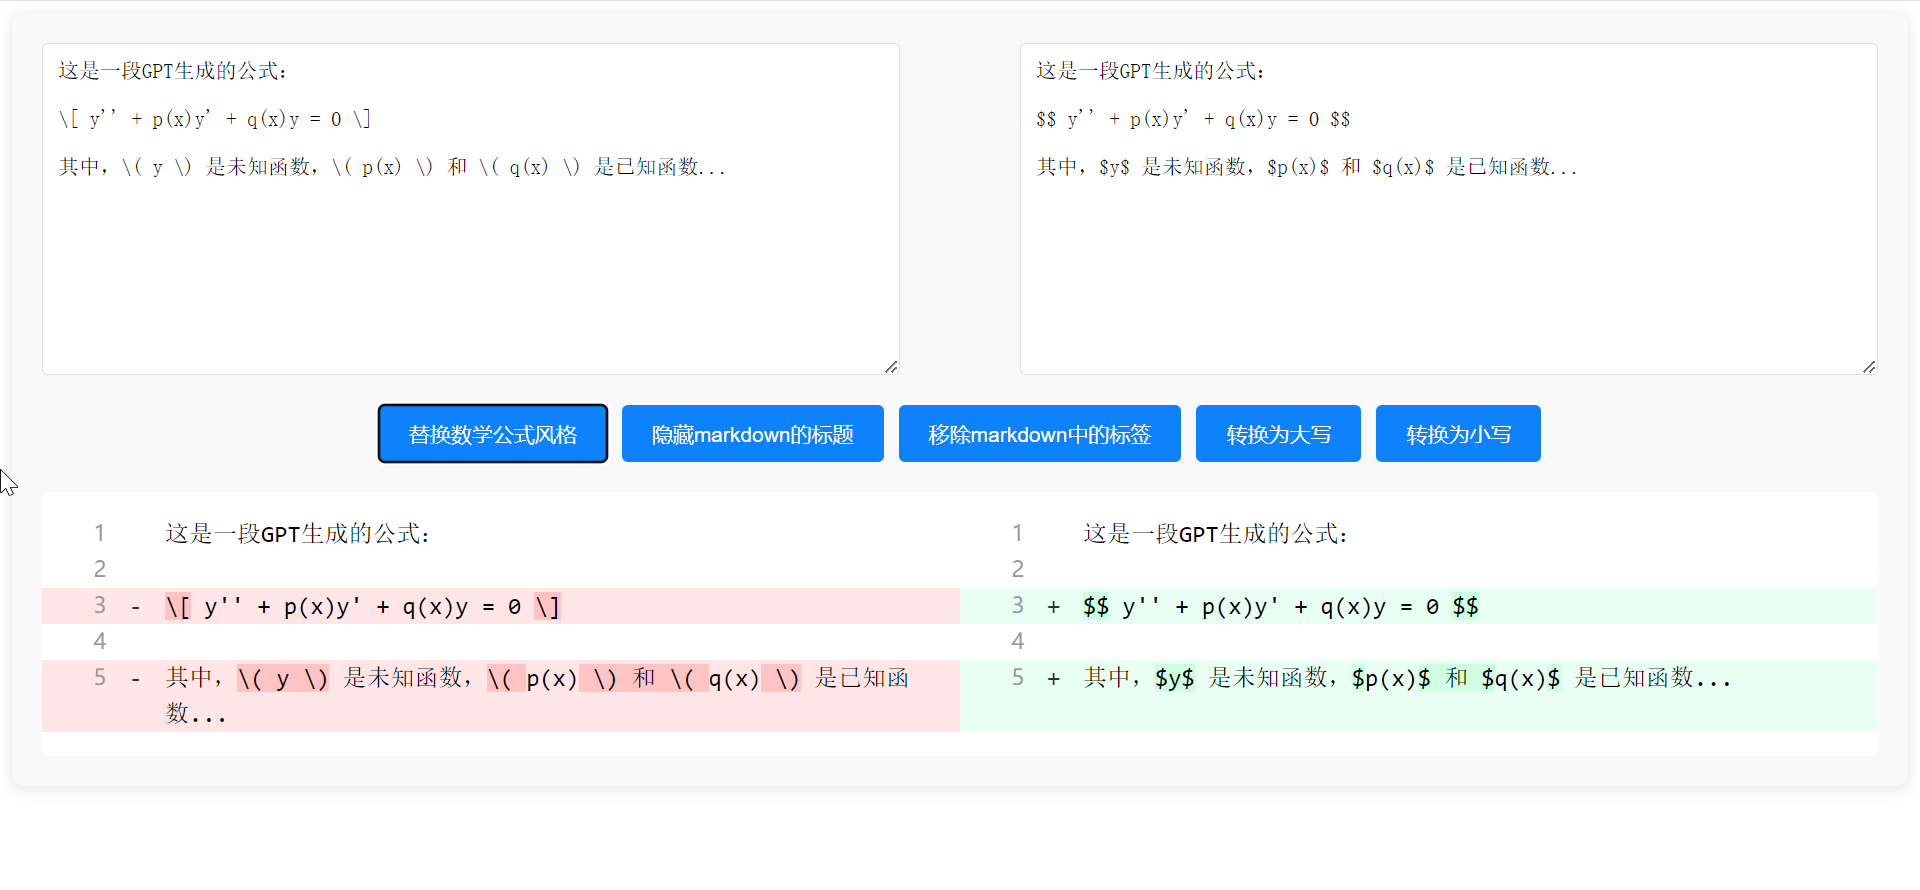
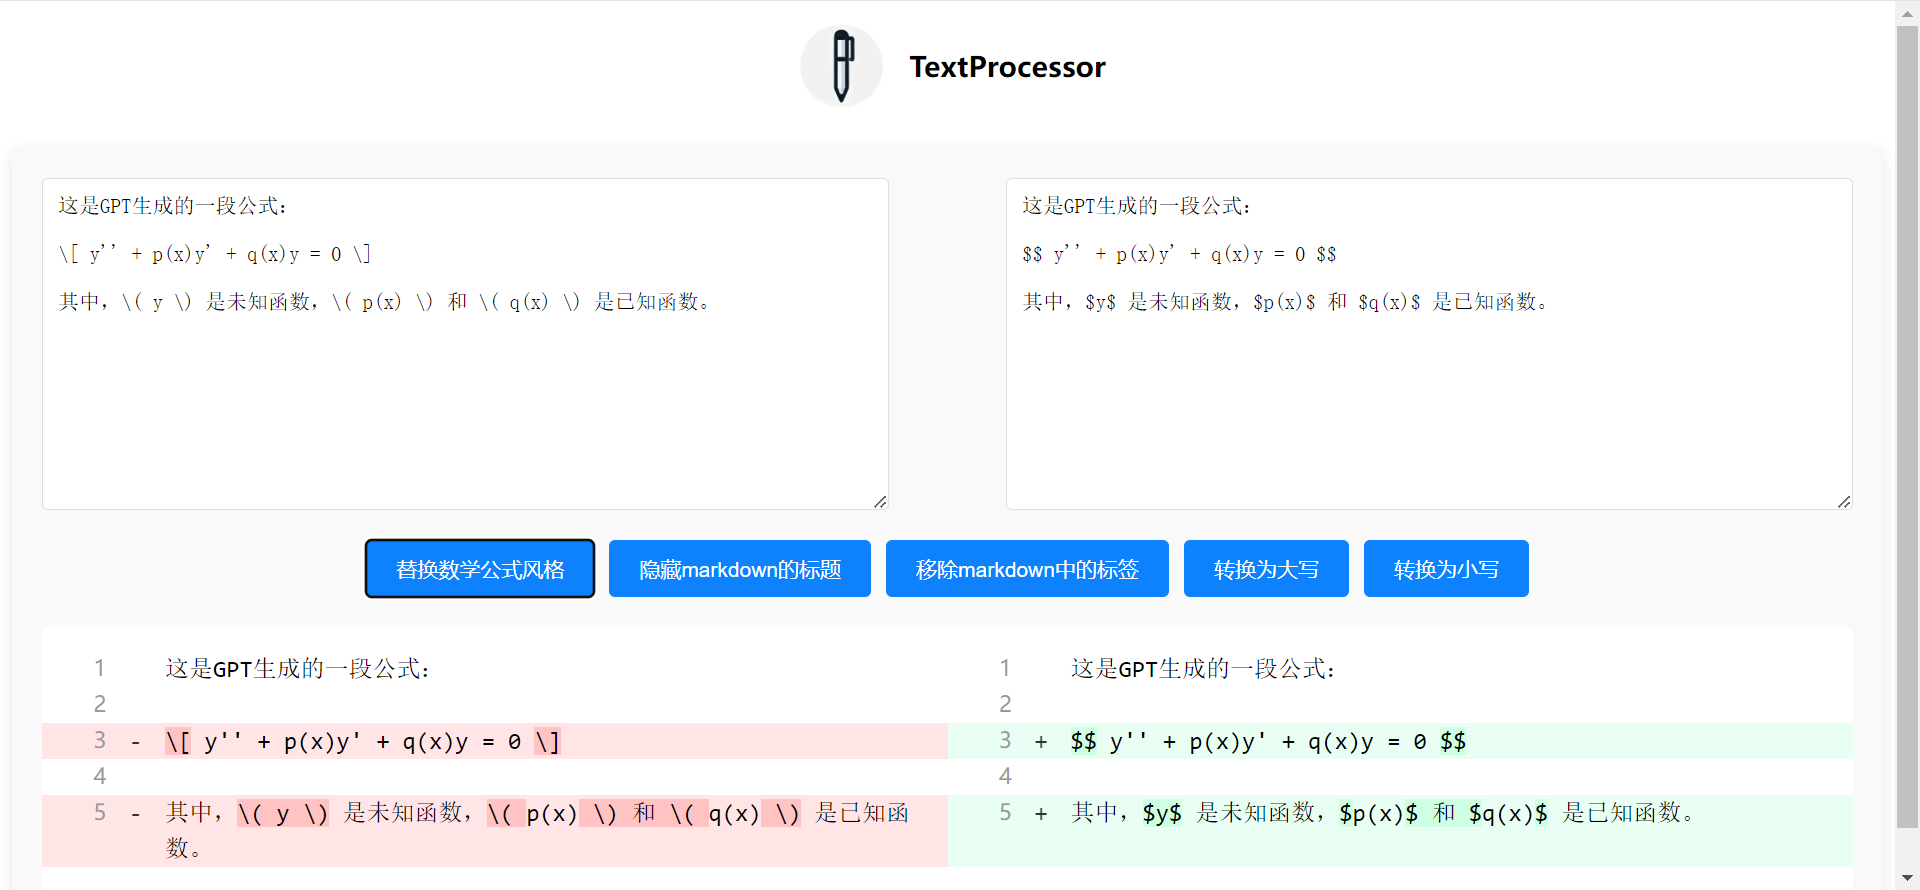
online-text-processor:添加图标和标题

diff --git a/online-text-processor/src/App.vue b/online-text-processor/src/App.vue
@@ -1,5 +1,10 @@
 <template>
   <div id="app">
+    <!-- 标题和图片 -->
+    <div class="header-container">
+      <img src="@/assets/logo.png" alt="Text Processor" class="header-image">
+      <h3>TextProcessor</h3>
+    </div>
     <div class="container">
       <!-- 文本输入和输出框 -->
       <div class="textarea-container">
@@ -87,6 +92,19 @@ export default {
 <style>
 #app {
   text-align: center;
+}
+
+.header-container {
+  display: flex;
+  align-items: center;
+  justify-content: center;
+  margin-bottom: 20px;
+}
+
+.header-image {
+  width: 70px;
+  height: auto;
+  margin-right: 10px;
 }
 
 .container {

diff --git a/online-text-processor/README.md b/online-text-processor/README.md
@@ -10,5 +10,5 @@
 
 ```shell
 docker build -t text-processor .
-docker run -d -p 80:80 text-processor
+docker run -d -p 80:80 --name text-processor-instance text-processor
 ```
